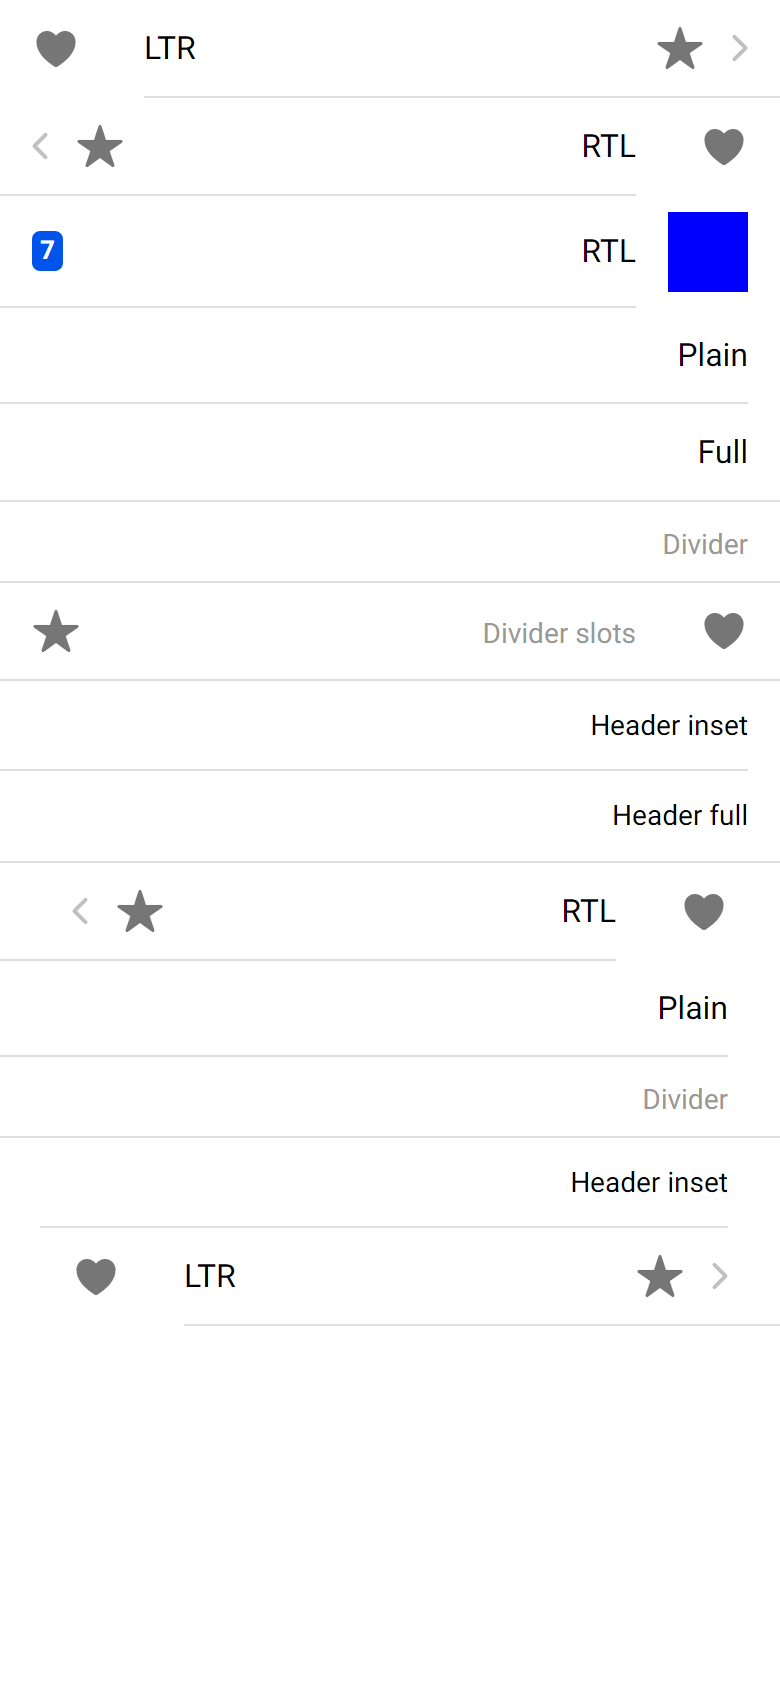
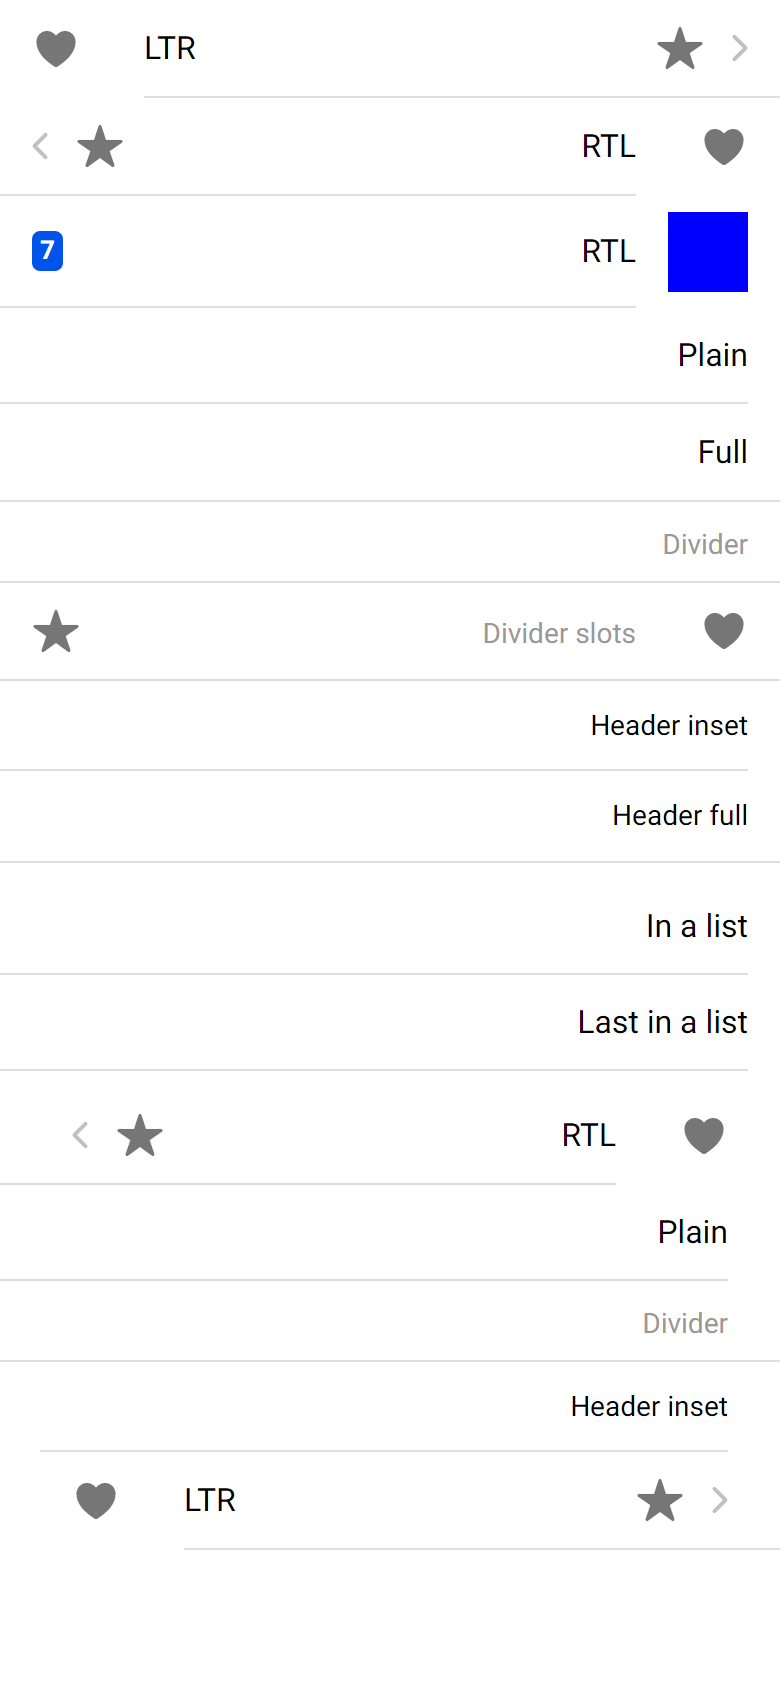
test: #90 first review: inherited direction, a list, unbroken lines, a runnable command
- The right-to-left rows take their direction from a panel around them, as the reference page's div gives it, and two
  items in an AvonicList are measured too (Chromium: inner 0, 374; line 0 to 747, the last one's as well).
- R2 checks that each line is unbroken, not only its ends; R1 compares within 0.05, and names a missing part.
- The command for boxes.js.txt runs from the repo's root; the frame's name and crop are said.
- ion-badge's comparison no longer lists the short line, which its own frames don't show.

diff --git a/docs/components/ion-item/ref/rtl/page.html b/docs/components/ion-item/ref/rtl/page.html
@@ -8,6 +8,7 @@
 <ion-item-divider id="rtl-divider-slots"><ion-icon name="heart" slot="start"></ion-icon><ion-label>Divider slots</ion-label><ion-icon name="star" slot="end"></ion-icon></ion-item-divider>
 <ion-list-header id="rtl-header-inset" lines="inset"><ion-label>Header inset</ion-label></ion-list-header>
 <ion-list-header id="rtl-header-full" lines="full"><ion-label>Header full</ion-label></ion-list-header>
+<ion-list><ion-item id="list-first">In a list</ion-item><ion-item id="list-last">Last in a list</ion-item></ion-list>
 </div>
 <div dir="rtl" style="--ion-safe-area-left:20px;--ion-safe-area-right:10px">
 <ion-item id="safe-detail" detail><ion-icon name="heart" slot="start"></ion-icon>RTL<ion-icon name="star" slot="end"></ion-icon></ion-item>

diff --git a/tests/Avonic.Components.Tests/Controls/AvonicItemRtlTests.cs b/tests/Avonic.Components.Tests/Controls/AvonicItemRtlTests.cs
@@ -12,66 +12,97 @@ namespace Avonic.Components.Tests.Controls;
 
 /// <summary>
 /// #90: in right to left, the inner border of an item, a divider and a list header ends where Chromium's does, with and without
-/// safe areas. The page is docs/components/ion-item/ref/rtl/page.html, and Chromium's numbers are its boxes.txt and the lines in its
-/// page.png, at a scale of 2.
+/// safe areas, and in a list. The page is docs/components/ion-item/ref/rtl/page.html, where the direction comes from a
+/// <c>div dir="rtl"</c> around the rows, as it does here from a panel around them. Chromium's numbers are its boxes.txt and the
+/// lines in its page.png, at a scale of 2.
 /// </summary>
 public class AvonicItemRtlTests
 {
-    /// <summary>A row of the page, with Chromium's inner part and container (x and width), and its lowest line's first and last pixel.</summary>
-    private sealed record Row(string Id, Control Control, double InnerX, double InnerWidth, double ContainerX, double ContainerWidth, int LineFirst, int LineLast)
+    private enum Group
     {
-        public bool Safe => Id.StartsWith("safe", StringComparison.Ordinal);
+        Ltr,
+        Rtl,
+        RtlList,
+        SafeRtl,
+        SafeLtr,
     }
+
+    /// <summary>A row of the page, with Chromium's inner part and container (x and width), and its lowest line's first and last pixel.</summary>
+    private sealed record Row(string Id, Group Group, Control Control, double InnerX, double InnerWidth, double ContainerX, double ContainerWidth, int LineFirst, int LineLast);
 
     private static Row[] Rows()
     {
         static AvonicIcon Icon(string name) => new() { IconName = name };
-        const FlowDirection rtl = FlowDirection.RightToLeft;
         return
         [
-            new("ltr-detail", new AvonicItem { Detail = true, StartContent = Icon("heart"), Content = "LTR", EndContent = Icon("star") }, 72, 318, 72, 240, 144, 779),
-            new("rtl-detail", new AvonicItem { FlowDirection = rtl, Detail = true, StartContent = Icon("heart"), Content = "RTL", EndContent = Icon("star") }, 0, 318, 78, 240, 0, 635),
-            new("rtl-badge", new AvonicItem
+            new("ltr-detail", Group.Ltr, new AvonicItem { Detail = true, StartContent = Icon("heart"), Content = "LTR", EndContent = Icon("star") }, 72, 318, 72, 240, 144, 779),
+            new("rtl-detail", Group.Rtl, new AvonicItem { Detail = true, StartContent = Icon("heart"), Content = "RTL", EndContent = Icon("star") }, 0, 318, 78, 240, 0, 635),
+            new("rtl-badge", Group.Rtl, new AvonicItem
             {
-                FlowDirection = rtl,
                 StartContent = new AvonicAvatar { Content = new Border { Background = Brushes.Blue } },
                 Content = new AvonicLabel { Content = "RTL" },
                 EndContent = new AvonicBadge { Content = "7" },
             }, 0, 318, 47.5, 270.5, 0, 635),
-            new("rtl-plain", new AvonicItem { FlowDirection = rtl, Content = "Plain" }, 0, 374, 16, 358, 0, 747),
-            new("rtl-full", new AvonicItem { FlowDirection = rtl, Content = "Full", Lines = ItemLines.Full }, 0, 374, 16, 358, 0, 779),
-            new("rtl-divider", new AvonicItemDivider { FlowDirection = rtl, Content = new AvonicLabel { Content = "Divider" } }, 0, 374, 16, 358, 0, 779),
-            new("rtl-divider-slots", new AvonicItemDivider
+            new("rtl-plain", Group.Rtl, new AvonicItem { Content = "Plain" }, 0, 374, 16, 358, 0, 747),
+            new("rtl-full", Group.Rtl, new AvonicItem { Content = "Full", Lines = ItemLines.Full }, 0, 374, 16, 358, 0, 779),
+            new("rtl-divider", Group.Rtl, new AvonicItemDivider { Content = new AvonicLabel { Content = "Divider" } }, 0, 374, 16, 358, 0, 779),
+            new("rtl-divider-slots", Group.Rtl, new AvonicItemDivider
             {
-                FlowDirection = rtl, StartContent = Icon("heart"), Content = new AvonicLabel { Content = "Divider slots" }, EndContent = Icon("star"),
+                StartContent = Icon("heart"), Content = new AvonicLabel { Content = "Divider slots" }, EndContent = Icon("star"),
             }, 0, 318, 56, 262, 0, 779),
-            new("rtl-header-inset", new AvonicListHeader { FlowDirection = rtl, Content = new AvonicLabel { Content = "Header inset" }, Lines = ListHeaderLines.Inset }, 0, 374, double.NaN, double.NaN, 0, 747),
-            new("rtl-header-full", new AvonicListHeader { FlowDirection = rtl, Content = new AvonicLabel { Content = "Header full" }, Lines = ListHeaderLines.Full }, 0, 374, double.NaN, double.NaN, 0, 779),
+            new("rtl-header-inset", Group.Rtl, new AvonicListHeader { Content = new AvonicLabel { Content = "Header inset" }, Lines = ListHeaderLines.Inset }, 0, 374, double.NaN, double.NaN, 0, 747),
+            new("rtl-header-full", Group.Rtl, new AvonicListHeader { Content = new AvonicLabel { Content = "Header full" }, Lines = ListHeaderLines.Full }, 0, 374, double.NaN, double.NaN, 0, 779),
+            new("list-first", Group.RtlList, new AvonicItem { Content = "In a list" }, 0, 374, 16, 358, 0, 747),
+            new("list-last", Group.RtlList, new AvonicItem { Content = "Last in a list" }, 0, 374, 16, 358, 0, 747),
 
             // --ion-safe-area-left: 20px; --ion-safe-area-right: 10px
-            new("safe-detail", new AvonicItem { FlowDirection = rtl, Detail = true, StartContent = Icon("heart"), Content = "RTL", EndContent = Icon("star") }, 0, 308, 98, 210, 0, 615),
-            new("safe-plain", new AvonicItem { FlowDirection = rtl, Content = "Plain" }, 0, 364, 36, 328, 0, 727),
-            new("safe-divider", new AvonicItemDivider { FlowDirection = rtl, Content = new AvonicLabel { Content = "Divider" } }, 0, 364, 36, 328, 0, 779),
-            new("safe-header", new AvonicListHeader { FlowDirection = rtl, Content = new AvonicLabel { Content = "Header inset" }, Lines = ListHeaderLines.Inset }, 20, 344, double.NaN, double.NaN, 40, 727),
-            new("safe-ltr-detail", new AvonicItem { Detail = true, StartContent = Icon("heart"), Content = "LTR", EndContent = Icon("star") }, 92, 298, 92, 210, 184, 779),
+            new("safe-detail", Group.SafeRtl, new AvonicItem { Detail = true, StartContent = Icon("heart"), Content = "RTL", EndContent = Icon("star") }, 0, 308, 98, 210, 0, 615),
+            new("safe-plain", Group.SafeRtl, new AvonicItem { Content = "Plain" }, 0, 364, 36, 328, 0, 727),
+            new("safe-divider", Group.SafeRtl, new AvonicItemDivider { Content = new AvonicLabel { Content = "Divider" } }, 0, 364, 36, 328, 0, 779),
+            new("safe-header", Group.SafeRtl, new AvonicListHeader { Content = new AvonicLabel { Content = "Header inset" }, Lines = ListHeaderLines.Inset }, 20, 344, double.NaN, double.NaN, 40, 727),
+            new("safe-ltr-detail", Group.SafeLtr, new AvonicItem { Detail = true, StartContent = Icon("heart"), Content = "LTR", EndContent = Icon("star") }, 92, 298, 92, 210, 184, 779),
         ];
     }
 
-    /// <summary>The page at 390 wide and a scale of 2, as Chromium's; the safe rows with the safe areas set on them.</summary>
+    /// <summary>The page at 390 wide and a scale of 2, as Chromium's, each group of rows in a panel that gives it its direction and safe areas.</summary>
     private static (Scene Scene, Row[] Rows) Page()
     {
         var rows = Rows();
-        var page = new StackPanel();
-        foreach (var row in rows)
+        StackPanel Panel(Group group, bool rtl, bool safe)
         {
-            if (row.Safe)
+            var panel = new StackPanel { FlowDirection = rtl ? FlowDirection.RightToLeft : FlowDirection.LeftToRight };
+            if (safe)
             {
-                row.Control.Resources["Avonic.SafeAreaLeft"] = 20d;
-                row.Control.Resources["Avonic.SafeAreaRight"] = 10d;
+                panel.Resources["Avonic.SafeAreaLeft"] = 20d;
+                panel.Resources["Avonic.SafeAreaRight"] = 10d;
             }
 
-            page.Children.Add(row.Control);
+            foreach (var row in rows.Where(r => r.Group == group))
+            {
+                panel.Children.Add(row.Control);
+            }
+
+            return panel;
         }
+
+        var rtlPanel = Panel(Group.Rtl, rtl: true, safe: false);
+        var list = new AvonicList();
+        foreach (var row in rows.Where(r => r.Group == Group.RtlList))
+        {
+            list.Items.Add(row.Control);
+        }
+
+        rtlPanel.Children.Add(list);
+        var page = new StackPanel
+        {
+            Children =
+            {
+                Panel(Group.Ltr, rtl: false, safe: false),
+                rtlPanel,
+                Panel(Group.SafeRtl, rtl: true, safe: true),
+                Panel(Group.SafeLtr, rtl: false, safe: true),
+            },
+        };
 
         var scene = new Scene(page, 390, 1400);
         scene.Window.Background = Brushes.White;
@@ -80,10 +111,12 @@ public class AvonicItemRtlTests
         return (scene, rows);
     }
 
-    private static Rect Box(Row row, string part, Visual window) =>
-        row.Control.GetVisualDescendants().OfType<Control>().First(c => c.Name == part) is var v
+    private static Rect? Box(Row row, string part, Visual window) =>
+        row.Control.GetVisualDescendants().OfType<Control>().FirstOrDefault(c => c.Name == part) is { } v
             ? new Rect(v.Bounds.Size).TransformToAABB(v.TransformToVisual(window)!.Value)
-            : default;
+            : null;
+
+    private static bool Near(double expected, double actual) => Math.Abs(expected - actual) < 0.05;
 
     [AvaloniaFact]
     public void R1_The_Inner_Part_And_The_Container_Are_Where_Chromiums_Are() => InstalledTheme.Run(_ =>
@@ -94,17 +127,17 @@ public class AvonicItemRtlTests
         foreach (var row in rows)
         {
             var inner = Box(row, "PART_Inner", scene.Window);
-            if (inner.X != row.InnerX || inner.Width != row.InnerWidth)
+            if (inner is not { } i || !Near(row.InnerX, i.X) || !Near(row.InnerWidth, i.Width))
             {
-                wrong.Add($"{row.Id}: inner {inner.X} {inner.Width}, Chromium {row.InnerX} {row.InnerWidth}");
+                wrong.Add($"{row.Id}: inner {inner}, Chromium x {row.InnerX} width {row.InnerWidth}");
             }
 
             if (!double.IsNaN(row.ContainerX))
             {
                 var container = Box(row, "PART_Container", scene.Window);
-                if (container.X != row.ContainerX || container.Width != row.ContainerWidth)
+                if (container is not { } c || !Near(row.ContainerX, c.X) || !Near(row.ContainerWidth, c.Width))
                 {
-                    wrong.Add($"{row.Id}: container {container.X} {container.Width}, Chromium {row.ContainerX} {row.ContainerWidth}");
+                    wrong.Add($"{row.Id}: container {container}, Chromium x {row.ContainerX} width {row.ContainerWidth}");
                 }
             }
         }
@@ -113,13 +146,14 @@ public class AvonicItemRtlTests
     });
 
     [AvaloniaFact]
-    public void R2_Each_Rows_Line_Starts_And_Ends_Where_Chromiums_Does() => InstalledTheme.Run(_ =>
+    public void R2_Each_Rows_Line_Is_Unbroken_And_Starts_And_Ends_Where_Chromiums_Does() => InstalledTheme.Run(_ =>
     {
         var (scene, rows) = Page();
         using var shown = scene;
-        var frame = scene.Window.CaptureRenderedFrame()!;
+        using var frame = scene.Window.CaptureRenderedFrame()!;
         if (Environment.GetEnvironmentVariable("AVONIC_CAPTURE_DIR") is { } dir)
         {
+            // compare/avonic-rtl-page.png is this, cut to Chromium's 844 high
             Directory.CreateDirectory(dir);
             frame.Save(Path.Combine(dir, "avonic-item-rtl-page.png"), PngBitmapEncoderOptions.Default);
         }
@@ -127,24 +161,27 @@ public class AvonicItemRtlTests
         var wrong = new List<string>();
         foreach (var row in rows)
         {
-            var (first, last) = LowestLine(frame, row.Control, scene.Window);
-            if (first != row.LineFirst || last != row.LineLast)
+            var (first, last, count) = LowestLine(frame, row.Control, scene.Window);
+            if (first != row.LineFirst || last != row.LineLast || count != last - first + 1)
             {
-                wrong.Add($"{row.Id}: {first}..{last}, Chromium {row.LineFirst}..{row.LineLast}");
+                wrong.Add($"{row.Id}: {first}..{last} with {count} grey, Chromium {row.LineFirst}..{row.LineLast} unbroken");
             }
         }
 
         Assert.True(wrong.Count == 0, string.Join("; ", wrong));
     });
 
-    /// <summary>The first and last grey pixel of the lowest line in a row's last four pixel rows, or -1 when there's none.</summary>
-    private static (int First, int Last) LowestLine(WriteableBitmap frame, Control row, Visual window)
+    /// <summary>
+    /// The first and last grey pixel of the lowest line in a row's last four pixel rows, and how many of the pixels are grey, or -1
+    /// when there's none.
+    /// </summary>
+    private static (int First, int Last, int Count) LowestLine(WriteableBitmap frame, Control row, Visual window)
     {
         var top = row.TransformToVisual(window)!.Value.M32;
         var bottom = (int)((top + row.Bounds.Height) * 2) - 1;
         for (var y = bottom; y > bottom - 4; y--)
         {
-            int first = -1, last = -1;
+            int first = -1, last = -1, count = 0;
             for (var x = 0; x < frame.PixelSize.Width; x++)
             {
                 var pixel = Frames.PixelAt(frame, x, y);
@@ -156,15 +193,16 @@ public class AvonicItemRtlTests
                     }
 
                     last = x;
+                    count++;
                 }
             }
 
             if (first >= 0)
             {
-                return (first, last);
+                return (first, last, count);
             }
         }
 
-        return (-1, -1);
+        return (-1, -1, 0);
     }
 }

diff --git a/docs/components/ion-item/COMPARISON.md b/docs/components/ion-item/COMPARISON.md
@@ -53,16 +53,19 @@ Each row in the plan has a test in `AvonicItemLayoutTests` named after it, so F1
 **doesn't reproduce** on v2 (c0a8ed6), and it doesn't show in the frames committed with #81, where it was seen either: both lines
 there run from pixel 0 to 635 at a scale of 2, as Chromium's do. So nothing is fixed here, and these rows pin it.
 
-The page is [`ref/rtl/page.html`](ref/rtl/page.html): items, dividers and list headers in right to left, once with no safe area
-and once with `--ion-safe-area-left: 20px` and `--ion-safe-area-right: 10px`, plus an item in left to right with each. Chromium's
-boxes are in [`ref/rtl/boxes.txt`](ref/rtl/boxes.txt), measured by
-[`ref/rtl/boxes.js.txt`](ref/rtl/boxes.js.txt): that's `tools/ionic-ref/boxes.js` with `ion-list-header` added, run as
-`node boxes.js ref/rtl/page.html ref/rtl/page.png`. Chromium is on the left and Avonic on the right, both headless:
+The page is [`ref/rtl/page.html`](ref/rtl/page.html). It has items, dividers, list headers and two items in a list in right to
+left, all taking the direction from a `div dir="rtl"` around them, as the tests take it from a panel. It has them once with no
+safe area and once with `--ion-safe-area-left: 20px` and `--ion-safe-area-right: 10px`, and an item in left to right with each.
+Chromium's boxes are in [`ref/rtl/boxes.txt`](ref/rtl/boxes.txt). They were measured by
+[`ref/rtl/boxes.js.txt`](ref/rtl/boxes.js.txt), which is `tools/ionic-ref/boxes.js` with `ion-list-header` added, run from the
+repo's root as `node docs/components/ion-item/ref/rtl/boxes.js.txt docs/components/ion-item/ref/rtl/page.html docs/components/ion-item/ref/rtl/page.png`.
+Avonic's frame is `AvonicItemRtlTests`' `avonic-item-rtl-page.png`, cut to Chromium's 844 high. Chromium is on the left and
+Avonic on the right, both headless:
 
 ![Right to left](compare/side-rtl.png)
 
 **Match.** In `AvonicItemRtlTests`, every row's inner part and container are at Chromium's x and width (R1). Each row's lowest
-line also starts and ends on Chromium's pixel (R2). For example, the item with icons and a detail icon has its inner part at
+line is unbroken, and starts and ends on Chromium's pixel (R2). For example, the item with icons and a detail icon has its inner part at
 x 0, 318 wide, and its line on pixels 0 to 635. With a 20 px left safe area, it's 0, 308 wide, and the list header's inner part
 starts at 20. The divider rows are 40.5 high against Chromium's 40, as [above](#the-flex-layout) (Chromium rounds a line of text).
 

diff --git a/docs/components/ion-badge/COMPARISON.md b/docs/components/ion-badge/COMPARISON.md
@@ -27,8 +27,9 @@ and one thumbnail of 64 at 50%; and an RTL item with an avatar and a badge.
   same height to within half a pixel.
 - **The first line** is shorter in Avonic, as its text is Avalonia's default size, where a page's is 16
   ([ADR 0002](../../decisions/0002-decisions-from-the-first-swarm.md)). Every row below sits a little higher for it.
-- **The line under the RTL item** reaches the left edge in Ionic, and stops 16 short of it in Avonic. That's `ion-item`'s
-  inner border in RTL, not these controls: measured `.item-inner` at x = 0, 318 wide. Listed for `ion-item` in the PR.
+- **The line under the RTL item** was listed here as stopping 16 short of the left edge in Avonic. It doesn't: in the frames
+  committed with this comparison, both lines run from pixel 0 to 635 at a scale of 2, `.item-inner` at x = 0 and 318 wide on
+  both sides. #90 measured it again and pinned it ([ion-item's comparison](../ion-item/COMPARISON.md#right-to-left-90)).
 
 ## Found here, not by the tests
 
